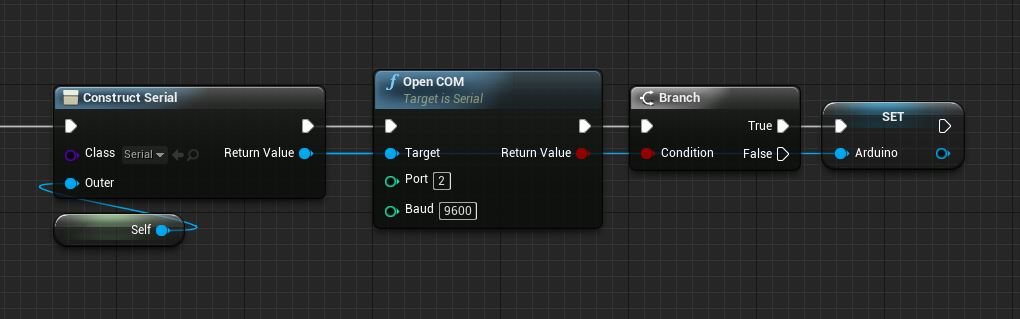
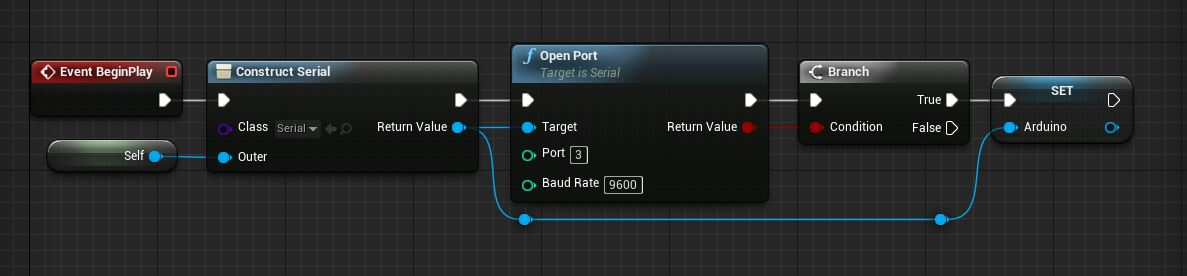
[Fix] ReadLine correctly filters out \r\n from returned String; The plugin successfully compiles and packages on Unreal Engine 4.15 and 4.16; Added functions comments so you know what a node does by hovering the mouse over it; Changed all "COM" in function names to "Serial port". It won't affect exi

Changed region(s): [[0.0, 0.1449, 0.9725, 0.8406], [0.0608, 0.6377, 0.2127, 0.7826]]

diff --git a/UE4Duino/Source/UE4Duino/Private/Serial.h b/UE4Duino/Source/UE4Duino/Private/Serial.h
@@ -1,5 +1,3 @@
-// Serial.h
-
 #pragma once
 
 #define FC_DTRDSR       0x01
@@ -12,74 +10,191 @@
 #define ASCII_XON       0x11
 #define ASCII_XOFF      0x13
 
-#include "UE4DuinoPCH.h"
 #include "AllowWindowsPlatformTypes.h"
 #include "windows.h"
 #include "HideWindowsPlatformTypes.h"
+#include "CoreTypes.h"
 #include "Serial.generated.h"
 
-UCLASS(BlueprintType, Category = "UE4Duino")
+UENUM(BlueprintType, Category = "UE4Duino")
+enum class ELineEnd : uint8
+{
+	rn	UMETA(DisplayName = "\r\n"),
+	n	UMETA(DisplayName = "\n"),
+	r	UMETA(DisplayName = "\r"),
+	nr	UMETA(DisplayName = "\n\r")
+};
+
+UCLASS(BlueprintType, Category = "UE4Duino", meta = (Keywords = "com arduino serial"))
 class USerial : public UObject
 {
 	GENERATED_BODY()
 
 public:
+	/** Determines the line ending used when writing lines to serial port with PrintLine. */
+	UPROPERTY(BlueprintReadWrite, Category = "UE4Duino | String")
+	ELineEnd WriteLineEnd;
+
 	USerial();
 	~USerial();
 
-	UFUNCTION(BlueprintCallable, meta = (DisplayName = "Open COM Port"), Category = "UE4Duino")
+	/**
+	* Open a serial port and return the created Serial instance.
+	* Don't forget to close the port before exiting the game.
+	*
+	* @param bOpened If the serial port was successfully opened.
+	* @param Port The serial port to open.
+	* @param BaudRate BaudRate to open the serial port with.
+	* @return A Serial instance to work with the opened port.
+	*/
+	UFUNCTION(BlueprintCallable, meta = (DisplayName = "Open Serial Port"), Category = "UE4Duino", meta = (Keywords = "com arduino serial start"))
 	static USerial* OpenComPort(bool &bOpened, int32 Port = 1, int32 BaudRate = 9600);
 
-	UFUNCTION(BlueprintCallable, meta=(DisplayName = "Open COM"), Category = "UE4Duino")
-	bool Open(int32 Port = 2, int32 Baud = 9600);
-	UFUNCTION(BlueprintCallable, meta = (DisplayName = "Close COM"), Category = "UE4Duino")
+	/**
+	* Open a serial port. Don't forget to close the port before exiting the game.
+	* If this Serial instance has already an opened port,
+	* return false and doesn't change the opened port number.
+	*
+	* @param Port The serial port to open.
+	* @param BaudRate BaudRate to open the serial port with.
+	* @return If the serial port was successfully opened.
+	*/
+	UFUNCTION(BlueprintCallable, meta=(DisplayName = "Open Port"), Category = "UE4Duino", meta = (Keywords = "com start init"))
+	bool Open(int32 Port = 2, int32 BaudRate = 9600);
+	/**
+	* Close and end the communication with the serial port. If not open, do nothing.
+	*/
+	UFUNCTION(BlueprintCallable, meta = (DisplayName = "Close Port"), Category = "UE4Duino", meta = (Keywords = "com end finish release"))
 	void Close();
 
 	/**
 	* Will read characters from Serial port until \0 (null char) is found or there are no 
 	* characters left to read.
+	*
+	* @param bSuccess If there was anything to read.
+	* @return The read string
 	*/
 	UFUNCTION(BlueprintCallable, meta = (DisplayName = "Read String", keywords = "get read receive string words text characters"), Category = "UE4Duino")
 	FString ReadString(bool &bSuccess);
-	/** Will read characters from Serial port until \n (newline) is found */
+	/**
+	* Will read characters from Serial port until \r\n (Arduino println line end) is found.
+	* 
+	* @param bSuccess If there was anything to read.
+	* @return The read string
+	*/
 	UFUNCTION(BlueprintCallable, meta = (DisplayName = "Read Line", keywords = "get read receive string words text characters"), Category = "UE4Duino")
 	FString Readln(bool &bSuccess);
+	/**
+	* Reads the string until a specific char is met.
+	* The Terminator char won't be included in the result string.
+	*/
+	//UFUNCTION(BlueprintCallable, meta = (DisplayName = "Read String Until", keywords = "get read receive string words text characters"), Category = "UE4Duino")
 	FString ReadStringUntil(bool &bSuccess, uint8 Terminator);
+	/**
+	* Reads a float from the serial port (sent as 4 bytes).
+	* @param bSuccess True if there were 4 bytes to read.
+	* @return The read value
+	*/
 	UFUNCTION(BlueprintCallable, meta = (DisplayName = "Read a Float", keywords = "get read receive"), Category = "UE4Duino")
 	float ReadFloat(bool &bSuccess);
+	/**
+	* Reads an integer from the serial port (sent as 4 bytes).
+	* @param bSuccess True if there were 4 bytes to read.
+	* @return The read value
+	*/
 	UFUNCTION(BlueprintCallable, meta = (DisplayName = "Read an Int", keywords = "get read receive integer"), Category = "UE4Duino")
 	int32 ReadInt(bool &bSuccess);
+	/**
+	* Reads a byte from the serial port.
+	* @param bSuccess True if there were 4 bytes to read.
+	* @return The read value
+	*/
 	UFUNCTION(BlueprintCallable, meta = (DisplayName = "Read a Byte", keywords = "get read receive"), Category = "UE4Duino")
 	uint8 ReadByte(bool &bSuccess);
+	/**
+	* Reads up to Limit bytes from the serial port. If there are less than Limit,
+	* reads all of them and return True.
+	* @param bSuccess True if there was at least 1 byte to read.
+	* @return An array containing the read bytes
+	*/
 	UFUNCTION(BlueprintCallable, meta = (DisplayName = "Read Bytes", keywords = "get read receive"), Category = "UE4Duino")
 	TArray<uint8> ReadBytes(int32 Limit = 256);
 
-	/** Writes a string without newline to the serial port. */
+	/**
+	* Writes a string without newline to the serial port.
+	* @param String The string to be sent to the serial port.
+	* @return True if the string was sent.
+	*/
 	UFUNCTION(BlueprintCallable, meta = (DisplayName = "Print", keywords = "send write string words text characters"), Category = "UE4Duino")
 	bool Print(FString String);
-	/** Writes a string with newline at the end to the serial port. */
+	/**
+	* Writes a string with newline (\n) appended at the end to the serial port.
+	* @param String The string to be sent to the serial port.
+	* @return True if the string was sent.
+	*/
 	UFUNCTION(BlueprintCallable, meta = (DisplayName = "Print Line", keywords = "send write string words text characters"), Category = "UE4Duino")
 	bool Println(FString String);
+	/**
+	* Writes a float value to the serial port as 4 bytes.
+	* @param Value The value to be sent to the serial port.
+	* @return True if the bytes were sent.
+	*/
 	UFUNCTION(BlueprintCallable, meta = (DisplayName = "Write a Float", keywords = "send"), Category = "UE4Duino")
 	bool WriteFloat(float Value);
+	/**
+	* Writes an integer value to the serial port as 4 bytes.
+	* @param Value The value to be sent to the serial port.
+	* @return True if the bytes were sent.
+	*/
 	UFUNCTION(BlueprintCallable, meta = (DisplayName = "Write an Int", keywords = "integer send"), Category = "UE4Duino")
 	bool WriteInt(int32 Value);
+	/**
+	* Writes a byte value to the serial port.
+	* @param Value The value to be sent to the serial port.
+	* @return True if the byte was sent.
+	*/
 	UFUNCTION(BlueprintCallable, meta = (DisplayName = "Write a Byte", keywords = "send"), Category = "UE4Duino")
 	bool WriteByte(uint8 Value);
+	/**
+	* Writes a byte array as a sequence of bytes to the serial port.
+	* @param Buffer The byte array to be sent to the serial port.
+	* @return True if the bytes were sent.
+	*/
 	UFUNCTION(BlueprintCallable, meta = (DisplayName = "Write Bytes", keywords = "send"), Category = "UE4Duino")
 	bool WriteBytes(TArray<uint8> Buffer);
 
-	UFUNCTION(BlueprintCallable, meta = (DisplayName = "Flush COM"), Category = "UE4Duino")
+	/** Clean the serial port by reading everything left to be read. */
+	UFUNCTION(BlueprintCallable, meta = (DisplayName = "Flush Port"), Category = "UE4Duino")
 	void Flush();
 
-	UFUNCTION(BlueprintPure, meta = (DisplayName = "Is COM Open"), Category = "UE4Duino")
+	/**
+	* Check if the serial port is open.
+	* @return True if the serial port is open.
+	*/
+	UFUNCTION(BlueprintPure, meta = (DisplayName = "Is Port Open"), Category = "UE4Duino")
 	bool IsOpened() { return m_hIDComDev != NULL; }
 
+	/**
+	* Read the number of the serial port selected for this Serial instance.
+	* @return The number of the serial port.
+	*/
 	UFUNCTION(BlueprintPure, meta = (DisplayName = "Get Port Number"), Category = "UE4Duino")
 	int32 GetPort() { return m_Port; }
 
+	/**
+	* Read the selected BaudRate for this Serial instance.
+	* @return The baud rate.
+	*/
 	UFUNCTION(BlueprintPure, meta = (DisplayName = "Get Baud Rate"), Category = "UE4Duino")
 	int32 GetBaud() { return m_Baud; }
+
+	/**
+	* Converts a LineEnd enum value to String.
+	* @param LineEnd LineEnd enum value.
+	* @return The LineEnd value in string format.
+	*/
+	UFUNCTION(BlueprintCallable, meta = (DisplayName = "Line End to String", keywords = "cast convert"), Category = "UE4Duino")
+	FString LineEndToStr(ELineEnd LineEnd);
 	
 protected:
 	void* m_hIDComDev;

diff --git a/UE4Duino/Source/UE4Duino/Private/Serial.cpp b/UE4Duino/Source/UE4Duino/Private/Serial.cpp
@@ -1,6 +1,5 @@
 //Based off the "Arduino and C++ (for Windows)" code found at: http://playground.arduino.cc/Interfacing/CPPWindows
 
-#include "UE4DuinoPCH.h"
 #include "Serial.h"
 
 #define BOOL2bool(B) B == 0 ? false : true
@@ -16,6 +15,7 @@ USerial::USerial()
 	: m_hIDComDev(NULL)
 	, m_Port(-1)
 	, m_Baud(-1)
+	, WriteLineEnd(ELineEnd::n)
 {
 	FMemory::Memset(&m_OverlappedRead, 0, sizeof(OVERLAPPED));
 	FMemory::Memset(&m_OverlappedWrite, 0, sizeof(OVERLAPPED));
@@ -36,8 +36,8 @@ bool USerial::Open(int32 nPort, int32 nBaud)
 	if (m_hIDComDev)
 	{
 		UE_LOG(LogTemp, Warning, TEXT("Trying to use opened Serial instance to open a new one. "
-				"Instance port: %d | Port tried: %d"), m_Port, nPort);
-		return true;
+				"Current open instance port: %d | Port tried: %d"), m_Port, nPort);
+		return false;
 	}
 
 	FString szPort = FString::Printf(nPort < 10 ? TEXT("COM%d") : TEXT("\\\\.\\COM%d"), nPort);
@@ -146,6 +146,11 @@ FString USerial::ReadStringUntil(bool &bSuccess, uint8 Terminator)
 
 		if (Byte == Terminator || dwBytesRead == 0)
 		{
+			// when Terminator is \n, we know we're expecting lines from Arduino. But those
+			// are ended in \r\n. That means that if we found the line Terminator (\n), our previous
+			// character was \r, so we remove that from the array.
+			if (Terminator == '\n' && Chars.Top() == '\r') Chars.Pop(false);
+
 			Chars.Add(0x0);
 			break;
 		}
@@ -266,7 +271,7 @@ bool USerial::Print(FString String)
 
 bool USerial::Println(FString String)
 {
-	return Print(String + "\n");
+	return Print(String + LineEndToStr(WriteLineEnd));
 }
 
 bool USerial::WriteFloat(float Value)
@@ -324,4 +329,21 @@ void USerial::Flush()
 	do {
 		Data = ReadBytes(8192);
 	} while (Data.Num() > 0);
+}
+
+FString USerial::LineEndToStr(ELineEnd LineEnd)
+{
+	switch (LineEnd)
+	{
+	case ELineEnd::rn:
+		return TEXT("\r\n");
+	case ELineEnd::n:
+		return TEXT("\n");
+	case ELineEnd::r:
+		return TEXT("\r");
+	case ELineEnd::nr:
+		return TEXT("\n\r");
+	default:
+		return TEXT("null");
+	}
 }

diff --git a/UE4Duino/Source/UE4Duino/UE4Duino.Build.cs b/UE4Duino/Source/UE4Duino/UE4Duino.Build.cs
@@ -2,8 +2,10 @@ using UnrealBuildTool;
 
 public class UE4Duino : ModuleRules
 {
-    public UE4Duino(TargetInfo target)
+    public UE4Duino(ReadOnlyTargetRules Target) : base(Target)
     {
+		PCHUsage = PCHUsageMode.UseExplicitOrSharedPCHs;
+
         PrivateIncludePaths.AddRange(new string[] { "UE4Duino/Private" });
 
         PrivateDependencyModuleNames.AddRange(

diff --git a/UE4Duino/Source/UE4Duino/Private/UE4DuinoModule.h b/UE4Duino/Source/UE4Duino/Private/UE4DuinoModule.h
@@ -1,5 +1,7 @@
 #pragma once
 
+#include "ModuleManager.h"
+
 DECLARE_LOG_CATEGORY_CLASS(UE4DuinoLog, Log, All);
 
 class UE4DuinoModule : public IModuleInterface

diff --git a/UE4Duino/Source/UE4Duino/Private/UE4DuinoModule.cpp b/UE4Duino/Source/UE4Duino/Private/UE4DuinoModule.cpp
@@ -1,4 +1,3 @@
-#include "UE4DuinoPCH.h"
 #include "UE4DuinoModule.h"
 
 IMPLEMENT_MODULE(UE4DuinoModule, UE4Duino);
